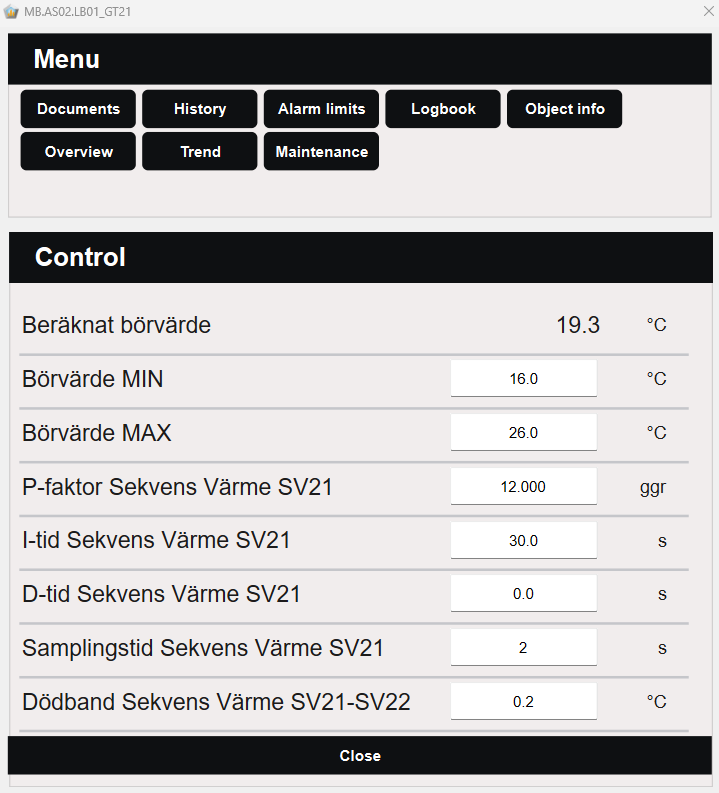
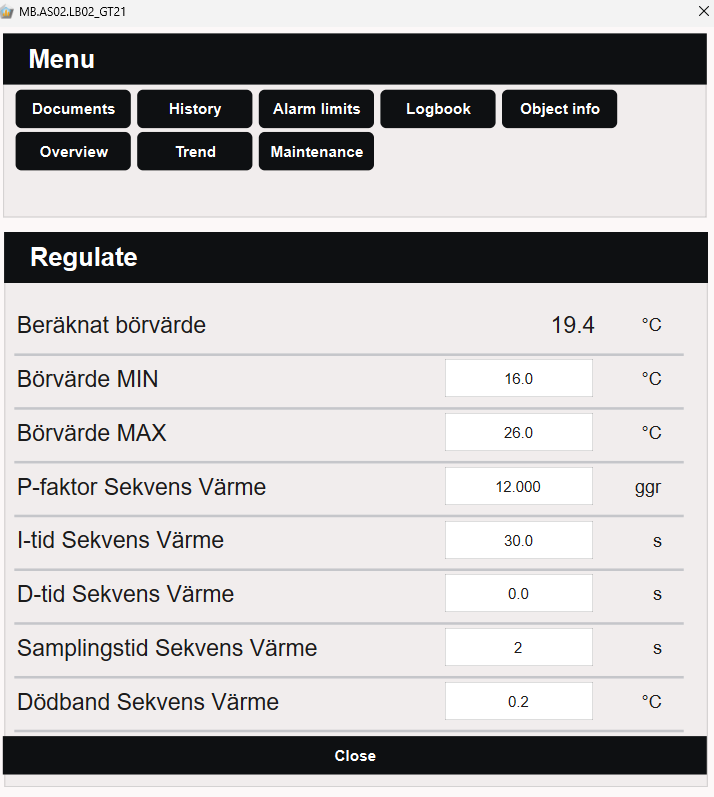
Updated images for Maneuver and Reglering.

diff --git a/docs/mod/reference/Popup/Maneuver.md b/docs/mod/reference/Popup/Maneuver.md
@@ -65,23 +65,34 @@ The following suffix aliases are configured for the BMS variant by default:
 ## Industry variant { #industry-variant }
 
 <!-- --8<-- [start:industry] -->
+![Maneuver popup, Industry variant](/docs/Images/Popups/ManeuverIndustry.png)
+
 The Industry variant (`ManoverIndustry.kvie`) is built for process equipment such as
 pumps and motors. In addition to switching mode, it lets the operator give a manual
 command and a manual setpoint, shows why an object cannot run, and can block an
 object. The rows it shows are:
 
-* **Mode** — switches the object between Auto and Manuell.
-* **Manual command** and **manual setpoint** — values the operator sets when the
-object is in manual mode.
-* **Interlock** — a text explaining why the object cannot run at the moment. The
-row is empty when there is no interlock.
+* **Status** — a card at the top showing the current state of the object.
+* **Operating mode** — switches the object between Auto and Manual.
+* **Manual control** — Off and On buttons for commanding the object by hand. They
+can only be used in Manual mode; until then the row reads "Select Manual to
+control".
+* **Manual setpoint** — the setpoint the operator sets by hand. It is greyed out
+while the object is in Auto or blocked.
+* **Interlock** — a text explaining why the object cannot run at the moment. It is
+shown in orange under **Manual control**, as "Interlock:" followed by the reason, and
+is absent when there is no interlock.
 * **Blocking** — blocks the object so that it does not run, in either Auto or
-Manuell. A reason must be entered to block an object, and lifting the block
-returns the object to the mode it had.
+Manual. The row shows whether the object is blocked. To block it, enter a cause
+and press **Block**; a cause must be entered. While the object is blocked the row
+shows **Blocked**, the cause, the user who set the block and the time, and the button
+changes to **Unblock**. Unblocking returns the object to the mode it had.
 * **Status values** — read-only values such as speed and power.
 
+![Blocking row of a blocked object](/docs/Images/Popups/ManeuverIndustryBlocked.png)
+
 A control is enabled only when the user has the required privilege, the object is not
-blocked and, where a locking signal is configured, the object is in Manuell.
+blocked and, where a locking signal is configured, the object is in Manual.
 
 The reason, the user and the time of each block are stored in the `object_blocks`
 table in the [Config database](../database-schemas/config-db.md#blocking).
@@ -92,7 +103,7 @@ The following suffix aliases are configured for the Industry variant by default:
 
 | Suffix alias | Suffix | Writable | Description |
 |---|---|---|---|
-| `mode` | `_MODE` | Yes | Operating mode (Auto / Manuell) |
+| `mode` | `_MODE` | Yes | Operating mode (Auto / Manual) |
 | `manualCommand` | `_MANCMD` | Yes | Manual control |
 | `manualSetpoint` | `_MANSP` | Yes | Manual setpoint |
 | `block` | `_BLOCK` | Yes | Blocking |

diff --git a/docs-sv/mod/reference/Popup/Maneuver.md b/docs-sv/mod/reference/Popup/Maneuver.md
@@ -65,20 +65,31 @@ Följande suffixaliaser är konfigurerade för BMS-varianten som standard:
 ## Industri-variant { #industry-variant }
 
 <!-- --8<-- [start:industry] -->
+![Manöver-popupen, Industri-varianten](/docs/sv/Images/Popups/ManeuverIndustry.png)
+
 Industri-varianten (`ManoverIndustry.kvie`) är byggd för processutrustning såsom
 pumpar och motorer. Förutom att växla läge låter den operatören ge ett manuellt
 kommando och ett manuellt börvärde, visar varför ett objekt inte kan gå och kan
 blockera ett objekt. Raderna som visas är:
 
-* **Läge** — växlar objektet mellan Auto och Manuell.
-* **Manuellt kommando** och **manuellt börvärde** — värden som operatören anger när
-objektet är i manuellt läge.
-* **Förregling** — en text som förklarar varför objektet inte kan gå just nu.
-Raden är tom när ingen förregling finns.
+* **Status** — ett kort överst som visar objektets aktuella tillstånd.
+* **Driftläge** — växlar objektet mellan Auto och Manuell.
+* **Manuell styrning** — knappar för Av och På för att styra objektet för hand. De
+kan bara användas i Manuellt läge; tills dess anger raden att Manuell måste väljas.
+* **Manuellt börvärde** — det börvärde operatören anger för hand. Det är gråat
+medan objektet är i Auto eller blockerat.
+* **Förregling** — en text som förklarar varför objektet inte kan gå just nu. Den
+visas i orange under **Manuell styrning**, som "Interlock:" följt av orsaken, och
+saknas när ingen förregling finns.
 * **Blockering** — blockerar objektet så att det inte går, varken i Auto eller
-Manuell. En orsak måste anges för att blockera ett objekt, och när blockeringen
-hävs går objektet tillbaka till det läge det hade.
+Manuell. Raden visar om objektet är blockerat. För att blockera anger man en orsak
+och trycker på **Blockera**; en orsak måste anges. Medan objektet är blockerat visar
+raden **Blockerad**, orsaken, användaren som satte blockeringen och tiden, och
+knappen byter till att häva blockeringen. När den hävs går objektet tillbaka till det
+läge det hade.
 * **Statusvärden** — skrivskyddade värden såsom varvtal och effekt.
+
+![Blockeringsraden för ett blockerat objekt](/docs/sv/Images/Popups/ManeuverIndustryBlocked.png)
 
 En styrning är aktiverad endast när användaren har den behörighet som krävs, objektet
 inte är blockerat och, där en låssignal är konfigurerad, objektet är i Manuell.
